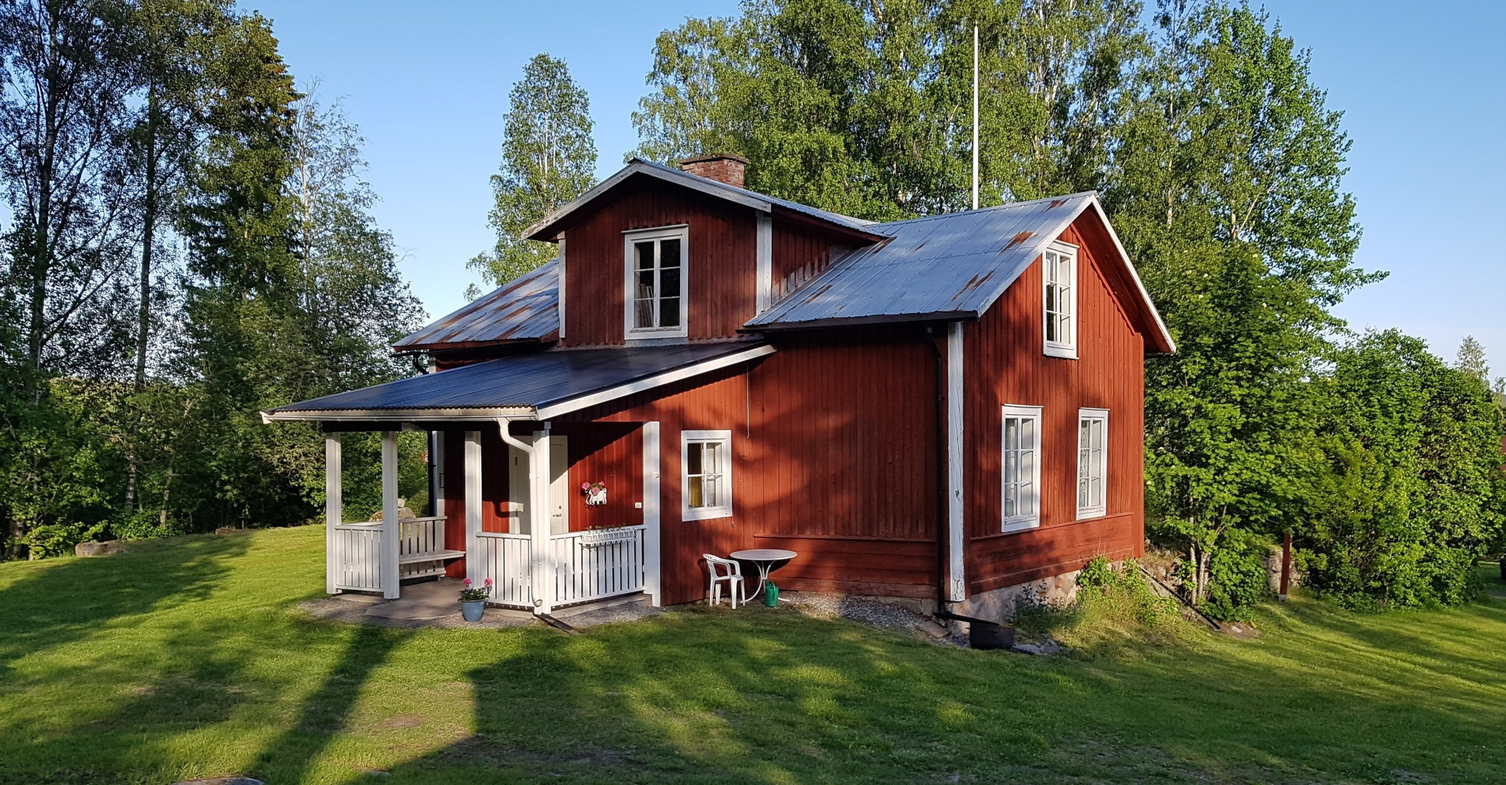
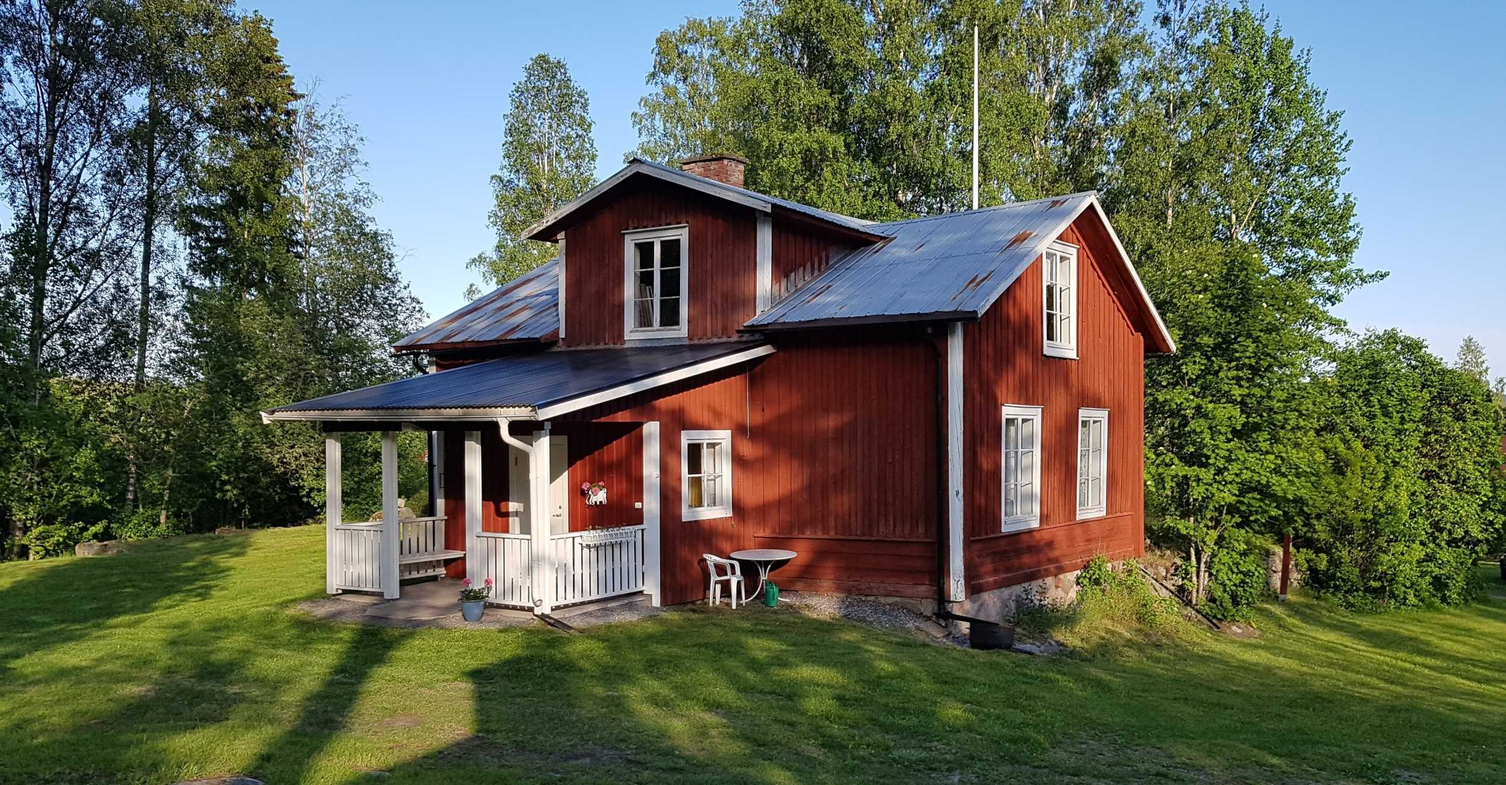
Minor tweaks to frontpage.

diff --git a/content/_index.md b/content/_index.md
@@ -8,8 +8,7 @@ layout: "single"
 Utviks Bygdegård, mitt i världsarvet Höga Kusten.
 {{< /lead >}}
 
-Lorem ipsum dolor sit amet, consectetur adipiscing elit. Sed eu fringilla nunc. Nullam lacus sapien, iaculis at metus nec, faucibus laoreet turpis. Phasellus faucibus rhoncus justo, a auctor leo aliquam nec. Nulla bibendum lacus vitae dolor dictum, et efficitur lorem sollicitudin. Quisque a libero placerat turpis accumsan laoreet id at purus. Sed ut tortor non neque ullamcorper mattis ac quis enim. Ut egestas urna sed risus consequat, sed tempor ipsum mattis.
-
+Lorem ipsum dolor sit amet, consectetur adipiscing elit. Sed eu fringilla nunc. Nullam lacus sapien, iaculis at metus nec, faucibus laoreet turpis. Phasellus faucibus rhoncus justo, a auctor leo aliquam nec. Nulla bibendum lacus vitae dolor dictum, et efficitur lorem sollicitudin.
 
 <div class="flex px-4 py-2 mb-8 text-base rounded-md bg-primary-100 dark:bg-primary-900">
   <span class="flex items-center ltr:pr-3 rtl:pl-3 text-primary-400">
@@ -23,5 +22,5 @@ Lorem ipsum dolor sit amet, consectetur adipiscing elit. Sed eu fringilla nunc. 
   </span>
 </div>
 
-![Vacker sommardag vid bygdegården](skolan_small.jpg "Foto av Kent Olofsson")
+![Vacker sommardag vid bygdegården](skolan.jpg "Foto av Kent Olofsson")
 
